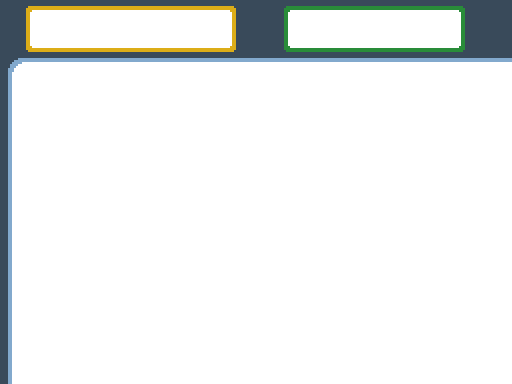
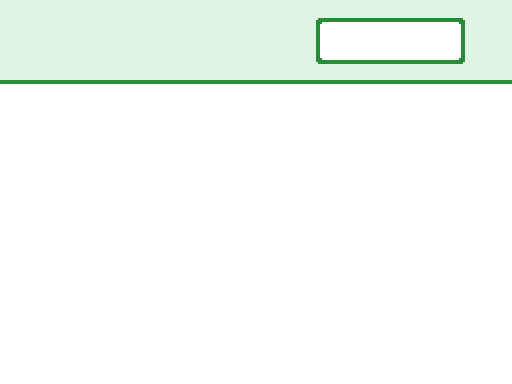
Second commit on work on the Boss Viewer
Newly defined regigigas avatar is just for testing, should be removed before merge.

Changed region(s): [[0.0, 0.0, 1.0, 1.0]]

diff --git a/Plugins/Chasm Graphics and UI/Menus/Boss Viewer/BossViewer.rb b/Plugins/Chasm Graphics and UI/Menus/Boss Viewer/BossViewer.rb
@@ -1,0 +1,202 @@
+class BossViewer_Scene
+    include MoveInfoDisplay
+
+    POKEMON_ICON_SIZE = 64
+    base   = Color.new(80, 80, 88)
+    shadow = Color.new(160, 160, 168)
+
+    def initialize(bossSpecies, bossVersion: 0)
+        @bossSpecies = bossSpecies
+        @boss = GameData::Avatar.get(bossSpecies, bossVersion)
+        @phase = 0
+        @moveIndex = 0
+
+        @sprites = {}
+        @viewport = Viewport.new(0,0,Graphics.width,Graphics.height)
+        @viewport.z = 99999
+
+        # Add background
+        backgroundFileName = "Boss viewer/boss_viewer_bg"
+        addBackgroundPlane(@sprites, "bg", backgroundFileName, @viewport)
+
+        # Define main overlays
+        @sprites["boss_overlay"] = BitmapSprite.new(Graphics.width, Graphics.height, @viewport)
+        @bossInfoOverlay = @sprites["boss_overlay"].bitmap
+        pbSetSystemFont(@bossInfoOverlay)
+
+        @sprites["phase_overlay"] = BitmapSprite.new(Graphics.width, Graphics.height, @viewport)
+        @phaseInfoOverlay = @sprites["phase_overlay"].bitmap
+        pbSetSystemFont(@phaseInfoOverlay)
+
+        # Define some constants
+        @typeX = 132
+        @typeY = 12
+        @arrowY = 28
+        @phaseNumberY = 28
+        @speciesIconX = 16
+        @speciesIconY = 4
+
+        # Create the left and right arrow sprites which surround the selected index
+        @sprites["leftarrow"] = AnimatedSprite.new("Graphics/Pictures/leftarrow", 8, 40, 28, 2, @viewport)
+        @sprites["leftarrow"].x       = 280
+        @sprites["leftarrow"].y       = @arrowY
+        @sprites["leftarrow"].play
+        @sprites["rightarrow"] = AnimatedSprite.new("Graphics/Pictures/rightarrow", 8, 40, 28, 2, @viewport)
+        @sprites["rightarrow"].x       = 280 + 180
+        @sprites["rightarrow"].y       = @arrowY
+        @sprites["rightarrow"].play
+
+        # Create overlay for selected move's extra info (shows move's BP, description)
+        move_path = "Graphics/Pictures/move_info_display_backwards_l"
+        move_path += "_dark" if darkMode?
+        @moveInfoDisplayBitmap = AnimatedBitmap.new(_INTL(move_path))
+        @moveInfoDisplay = SpriteWrapper.new(@viewport)
+        @moveInfoDisplay.bitmap = @moveInfoDisplayBitmap.bitmap
+        @sprites["moveInfoDisplay"] = @moveInfoDisplay
+        @extraInfoOverlay = BitmapSprite.new(Graphics.width, Graphics.height, @viewport)
+        @sprites["extra_info_overlay"] = @extraInfoOverlay
+        pbSetNarrowFont(@extraInfoOverlay.bitmap)
+
+        @typebitmap = AnimatedBitmap.new(addLanguageSuffix(("Graphics/Pictures/types")))
+
+        renderBossInfo
+        renderPhaseInfo
+
+        pbFadeInAndShow(@sprites) { pbUpdate }
+
+        loop do
+            Graphics.update
+            Input.update
+            pbUpdate
+            refreshNeeded = false
+            if Input.trigger?(Input::BACK)
+                pbEndScene
+                pbPlayCloseMenuSE
+                return
+            elsif Input.trigger?(Input::LEFT)
+                if @phase > 0
+                    @phase -= 1
+                    refreshNeeded = true
+                    pbPlayCursorSE
+                else
+                    pbPlayBuzzerSE
+                end
+            elsif Input.trigger?(Input::RIGHT)
+                if @phase < @boss.num_phases - 1
+                    @phase += 1
+                    refreshNeeded = true
+                    pbPlayCursorSE
+                else
+                    pbPlayBuzzerSE
+                end
+            end
+            renderPhaseInfo if refreshNeeded
+        end
+    end
+
+    MAX_MOVE_NAME_WIDTH = 140
+
+    def renderBossInfo
+        base = MessageConfig::DARK_TEXT_MAIN_COLOR
+        shadow = MessageConfig::DARK_TEXT_SHADOW_COLOR
+        @bossInfoOverlay.clear
+
+        # Add pokemon icon
+        @sprites["pokeicon"] = PokemonSpeciesIconSprite.new(@bossSpecies, @viewport)
+        @sprites["pokeicon"].x = @speciesIconX
+        @sprites["pokeicon"].y = @speciesIconY
+
+        # Draw ability name(s)
+        abilityLabel = GameData::Ability.get(@boss.abilities[0]).name
+        if @boss.abilities.length > 1
+            for abilityIndex in 1..@boss.abilities.length-1
+                nextAbilityName = GameData::Ability.get(@boss.abilities[abilityIndex]).name
+                abilityLabel = "#{abilityLabel}, #{nextAbilityName}"
+            end
+            pbSetSmallFont(@bossInfoOverlay)
+        end
+        drawFormattedTextEx(@bossInfoOverlay, 100, 44, Graphics.width, abilityLabel, base, shadow)
+        pbSetSystemFont(@bossInfoOverlay)
+
+        # Draw items
+        unless @boss.items.empty?
+            pixelsBetweenItems = 20
+            itemX = @speciesIconX + POKEMON_ICON_SIZE - 8 - pixelsBetweenItems * (@boss.items.length - 1)
+            itemY = @speciesIconY + POKEMON_ICON_SIZE - 8
+            @boss.items.each_with_index do |item, itemIndex|
+                newItemIcon = ItemIconSprite.new(itemX,itemY,item,@viewport)
+                newItemIcon.zoom_x = 0.5
+                newItemIcon.zoom_y = 0.5
+                @sprites["item_#{itemIndex}"] = newItemIcon
+
+                itemX += pixelsBetweenItems
+            end
+        end
+    end
+
+    def renderPhaseInfo
+        base = MessageConfig::DARK_TEXT_MAIN_COLOR
+        shadow = MessageConfig::DARK_TEXT_SHADOW_COLOR
+        @phaseInfoOverlay.clear
+
+        # Draw Pokémon type(s)
+        if @phase == 0
+            bossSpeciesData = GameData::Species.get(@bossSpecies)
+            type1_number = GameData::Type.get(bossSpeciesData.type1).id_number
+
+            unless bossSpeciesData.type1 == bossSpeciesData.type2
+                type2_number = GameData::Type.get(bossSpeciesData.type2).id_number
+            end
+        else
+            types = @boss.getTypeForPhase(@phase)
+            if types.is_a?(Array)
+                type1_number = GameData::Type.get(types[0]).id_number
+                type2_number = GameData::Type.get(types[1]).id_number
+            else
+                type1_number = GameData::Type.get(types).id_number
+            end
+        end
+        type1rect = Rect.new(0, type1_number * 28, 64, 28)
+        
+        if type2_number
+            type2rect = Rect.new(0, type2_number * 28, 64, 28)
+
+            @phaseInfoOverlay.blt(@typeX, @typeY, @typebitmap.bitmap, type1rect)
+            @phaseInfoOverlay.blt(@typeX + 66, @typeY, @typebitmap.bitmap, type2rect)
+        else
+            @phaseInfoOverlay.blt(@typeX + 32, @typeY, @typebitmap.bitmap, type1rect)
+        end
+
+        # Draw phase number
+        drawFormattedTextEx(@phaseInfoOverlay, 336, @phaseNumberY, Graphics.width, _INTL("Phase {1}/{2}",@phase+1,@boss.num_phases), base, shadow)
+
+        # Draw move info
+        writeMoveInfoToInfoOverlayBackwardsL(@extraInfoOverlay.bitmap,@boss.arrayOfMoveSets[@phase][@moveIndex],false)
+    
+        @sprites["leftarrow"].visible = @phase > 0
+        @sprites["rightarrow"].visible = @phase < @boss.num_phases - 1
+    end
+
+    # End the scene here
+    def pbEndScene
+        pbFadeOutAndHide(@sprites) { pbUpdate }
+        pbDisposeSpriteHash(@sprites)
+        # DISPOSE OF BITMAPS HERE #
+        @moveInfoDisplayBitmap.dispose
+        @typebitmap.dispose
+    end
+
+    def pbUpdate
+        pbUpdateSpriteHash(@sprites)
+    end
+end
+
+def bossViewer(bossSpecies, bossVersion: 0)
+    if bossSpecies.is_a?(PokeBattle_Battler)
+        bossVersion = bossSpecies.pokemon.bossVersion
+        bossSpecies = bossSpecies.species
+    end
+    pbFadeOutIn {
+        BossViewer_Scene.new(bossSpecies, bossVersion: bossVersion)
+    }
+end
